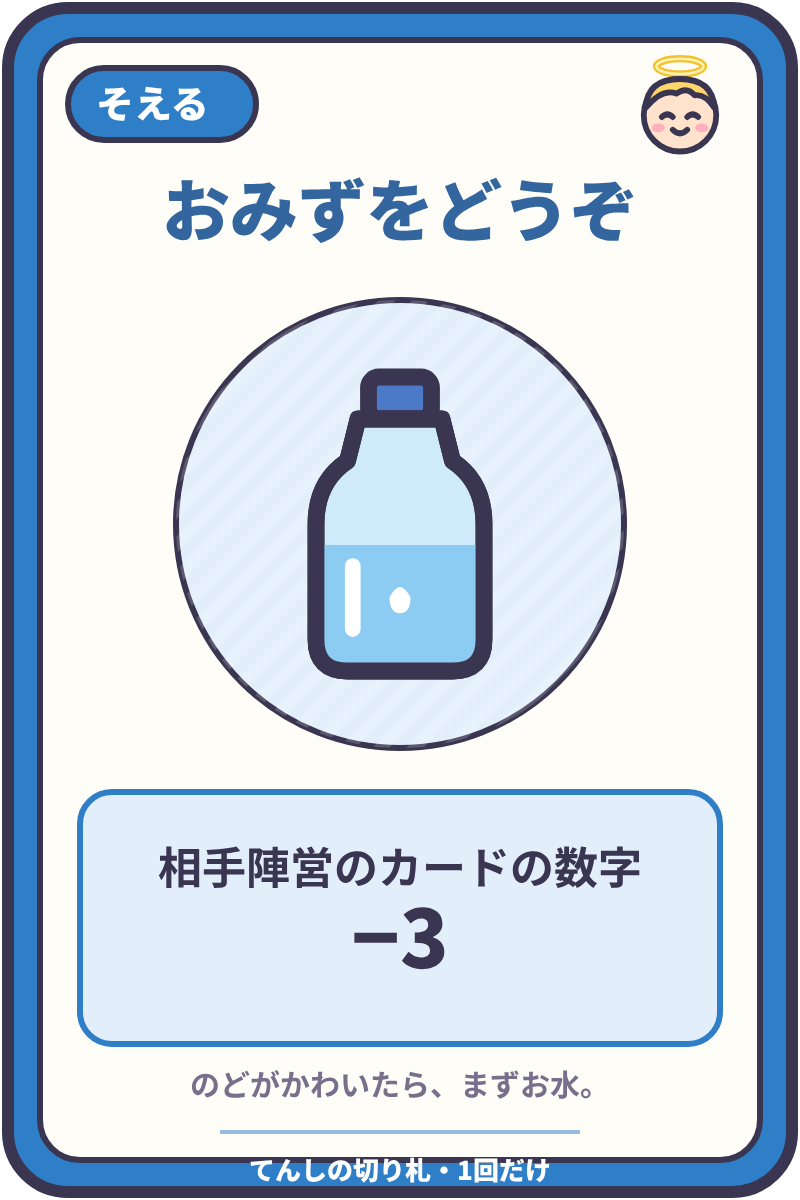
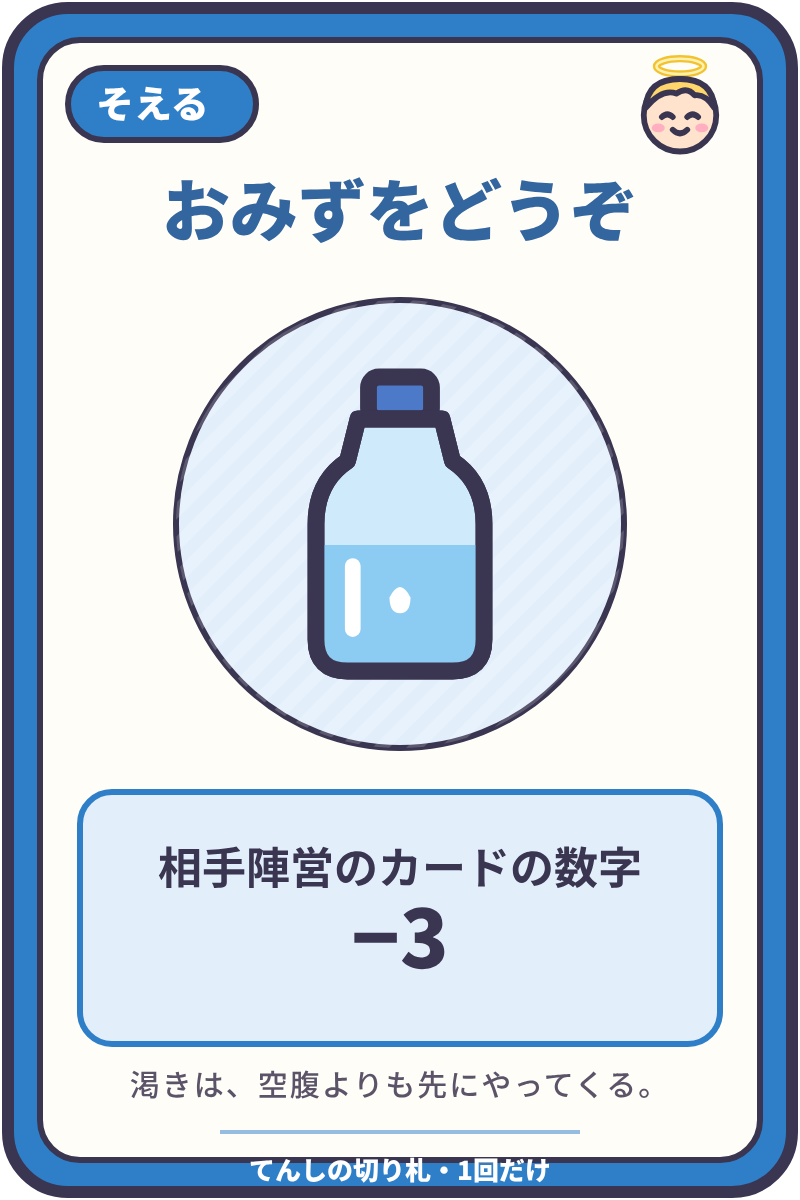
不穏なフレーバーテキストを追加（道中のひとこと・エピローグ・切り札の一言・ボード） (#50)
Claude-Session: https://claude.ai/code/session_01BgQtM1HGqWqvRbX9Ms6AAP

Changed region(s): [[0.1562, 0.8942, 0.8125, 0.925]]

diff --git a/tools/build_assets.py b/tools/build_assets.py
@@ -18,6 +18,9 @@ ROOT = Path(__file__).resolve().parent.parent
 ASSETS = ROOT / "assets"
 
 FONT = "'Noto Sans CJK JP','Hiragino Sans','Yu Gothic','Meiryo',sans-serif"
+# フレーバーテキスト用の色（フォントは本文と同じ丸みのあるゴシックのまま。
+# ポップな見た目のまま不穏な文が書かれているほうが不気味さが出るため）
+FLAVOR = "#5B5468"
 
 # ---- パレット（てんし＝青、あくま＝ローズ で全素材を統一） ----
 INK_SOFT = "#77708C"
@@ -45,6 +48,11 @@ TYPES = {
 def t(x, y, s, size, fill=INK, weight="normal", anchor="middle", extra=""):
     return (f'<text x="{x:.1f}" y="{y:.1f}" font-size="{size}" font-weight="{weight}" '
             f'fill="{fill}" text-anchor="{anchor}" {extra}>{escape(s)}</text>')
+
+
+def ft(x, y, s, size, fill=FLAVOR, anchor="middle", weight="500"):
+    """フレーバーテキスト（本文と同じフォント）"""
+    return t(x, y, s, size, fill, weight, anchor, 'letter-spacing="1"')
 
 
 def outlined(x, y, s, size, fill, stroke=INK, sw=8, anchor="middle", weight="900"):
@@ -402,13 +410,26 @@ def scenery_svg():
     return "\n".join(out)
 
 
+def flavor_svg():
+    """道のまんなかの空き地に置く、ひとことのフレーバー"""
+    out = []
+    # わかれ道①の内側（5A〜7A と 5B〜7B のあいだ）
+    out.append(ft(cx(5) - 6, cy(1) - 8, "――あのひとは今日も、", 15))
+    out.append(ft(cx(5) + 10, cy(1) + 18, "ひとりで帰ってくる。", 15))
+    # わかれ道②の内側（13A〜11A と 13B〜11B のあいだ）
+    out.append(ft(cx(6) - 2, cy(4) - 6, "おなかが空いたら、", 15))
+    out.append(ft(cx(6) + 14, cy(4) + 20, "おうちへ帰りましょう。", 15))
+    return "\n".join(out)
+
+
 def board():
     parts = [f'<svg xmlns="http://www.w3.org/2000/svg" width="{W}" height="{H}" viewBox="0 0 {W} {H}" font-family="{FONT}">',
              DEFS,
              f'<rect width="{W}" height="{H}" fill="url(#sky)"/>',
              f'<rect width="{W}" height="{H}" fill="url(#dots)"/>',
              scenery_svg(),
-             road_svg()]
+             road_svg(),
+             flavor_svg()]
     for sq in SQUARES:
         parts.append(tile_svg(sq))
     parts += [title_svg(), gimmick_svg(), flow_svg(), gauge_svg(), card_area_svg(), "</svg>"]
@@ -447,7 +468,9 @@ def quick_reference():
          outlined(62, 94, "おかえりロード 早見表", 48, INK, INK, 6, "start"),
          outlined(60, 90, "おかえりロード 早見表", 48, "#FFFFFF", INK, 5, "start"),
          place(art.angel(), QW - 170, 66, 80),
-         place(art.devil(), QW - 90, 72, 70)]
+         place(art.devil(), QW - 90, 72, 70),
+         ft(QW - 222, 58, "肩の上で、てんしとあくまが言い争う。", 14, anchor="end"),
+         ft(QW - 222, 86, "あのひとの好物を、だれも知らない。", 14, anchor="end")]
 
     def box(y, h, title, color):
         p.append(f'<g filter="url(#soft)"><rect x="40" y="{y}" width="{QW - 80}" height="{h}" rx="24" fill="#FFFFFF"/></g>')
@@ -548,20 +571,20 @@ def quick_reference():
 TRUMPS = {
     "angel": [
         # id, 名前, アイコン, タイミング, 効果（行ごと）, ひとこと
-        ("radio", "ラジオたいそう", "dumbbell", "そえる", ["自陣営のカードの数字", "+3"], "いっちに、さんし！"),
-        ("water", "おみずをどうぞ", "bottle", "そえる", ["相手陣営のカードの数字", "−3"], "のどがかわいたら、まずお水。"),
-        ("omamori", "おまもり", "omamori", "そえる", ["この公開でゲージが", "あくま側へ動くなら", "その動きを0にする"], "わるい誘惑から守ってくれる。"),
-        ("map", "ちずアプリ", "phone_map", "そえる", ["わかれ道で、勝ち負けに", "関係なくレーンを", "健康レーンにする"], "こっちの道のほうが景色がいいよ。"),
-        ("cheer", "おうえん団", "megaphone", "そえる", ["この公開でゲージが", "てんし側へ動くなら", "その動きを2倍にする"], "フレー！フレー！"),
-        ("early", "はやおき", "alarm", "いつでも", ["自陣営の手番中に使う", "山札から2枚引いて", "陣営の手札に加える"], "早起きは三文の徳。"),
+        ("radio", "ラジオたいそう", "dumbbell", "そえる", ["自陣営のカードの数字", "+3"], "体はいつも、動けるようにしておくこと。"),
+        ("water", "おみずをどうぞ", "bottle", "そえる", ["相手陣営のカードの数字", "−3"], "渇きは、空腹よりも先にやってくる。"),
+        ("omamori", "おまもり", "omamori", "そえる", ["この公開でゲージが", "あくま側へ動くなら", "その動きを0にする"], "守られているのは、どちらのほうだろう。"),
+        ("map", "ちずアプリ", "phone_map", "そえる", ["わかれ道で、勝ち負けに", "関係なくレーンを", "健康レーンにする"], "明るい道を選びなさい。人目のある道を。"),
+        ("cheer", "おうえん団", "megaphone", "そえる", ["この公開でゲージが", "てんし側へ動くなら", "その動きを2倍にする"], "声援がやむと、町はおそろしく静かだ。"),
+        ("early", "はやおき", "alarm", "いつでも", ["自陣営の手番中に使う", "山札から2枚引いて", "陣営の手札に加える"], "朝の道は、ひとりきりの人が多い。"),
     ],
     "devil": [
-        ("oomori", "大盛りサービス", "burger", "そえる", ["自陣営のカードの数字", "+3"], "大盛り無料ですよ〜。"),
-        ("sleepy", "ねむけさそい", "zzz", "そえる", ["相手陣営のカードの数字", "−3"], "ふわぁ…ちょっとだけ休もうよ。"),
-        ("gorone", "ごろ寝", "pillow", "そえる", ["この公開でゲージが", "てんし側へ動くなら", "その動きを0にする"], "運動は明日からでいいって。"),
-        ("smell", "いいにおい", "steam_smell", "そえる", ["わかれ道で、勝ち負けに", "関係なくレーンを", "誘惑レーンにする"], "あっちから、おいしそうな香り…"),
-        ("reward", "ごほうびデー", "cake", "そえる", ["この公開でゲージが", "あくま側へ動くなら", "その動きを2倍にする"], "今日はがんばったから特別！"),
-        ("late", "よふかし", "moon", "いつでも", ["自陣営の手番中に使う", "山札から2枚引いて", "陣営の手札に加える"], "夜食の時間だね。"),
+        ("oomori", "大盛りサービス", "burger", "そえる", ["自陣営のカードの数字", "+3"], "満腹のあいだは、だれも困らない。"),
+        ("sleepy", "ねむけさそい", "zzz", "そえる", ["相手陣営のカードの数字", "−3"], "眠っているあいだは、町が静かでいい。"),
+        ("gorone", "ごろ寝", "pillow", "そえる", ["この公開でゲージが", "てんし側へ動くなら", "その動きを0にする"], "動かないことも、ひとつのやさしさだ。"),
+        ("smell", "いいにおい", "steam_smell", "そえる", ["わかれ道で、勝ち負けに", "関係なくレーンを", "誘惑レーンにする"], "においの元は、いつも厨房の奥にある。"),
+        ("reward", "ごほうびデー", "cake", "そえる", ["この公開でゲージが", "あくま側へ動くなら", "その動きを2倍にする"], "今日の分は、もう食べたことにしよう。"),
+        ("late", "よふかし", "moon", "いつでも", ["自陣営の手番中に使う", "山札から2枚引いて", "陣営の手札に加える"], "夜は長い。おなかは、また空く。"),
     ],
 }
 
@@ -594,7 +617,7 @@ def trump_card(side, card):
     for i, line in enumerate(lines):
         big = line in ("+3", "−3")
         p.append(t(200, y0 + i * 34 + (8 if big else 0), line, 40 if big else 22, INK, "900" if big else "bold"))
-    p.append(t(200, 548, flavor, 15, INK_SOFT, "bold"))
+    p.append(ft(200, 548, flavor, 15 if len(flavor) <= 18 else 14))
     p.append(f'<path d="M110 566 L290 566" stroke="{color}" stroke-width="2" opacity="0.5"/>')
     p.append(t(200, 590, f"{team}・1回だけ", 13, "#FFFFFF", "900"))
     p.append("</svg>")

diff --git a/IMPROVEMENT_LOG.md b/IMPROVEMENT_LOG.md
@@ -57,3 +57,4 @@
 - 2026-10-08 01:08 JST: ccfolia/chat_palette.txt に、RULES.md でチャットに書き残すよう求めている定型文「健康レーンに決定」「誘惑レーンに決定」「てんし陣営に妨害中」「あくま陣営に妨害中」を追加し、RULES.md「CCFOLIA運用メモ」のチャットパレットの説明にも定型文が入っていることを追記（PR #54）
 - 2026-10-08 05:09 JST: 上級ルールの ♣ の半減が J「妨害」と同じくターンをまたいで続くのに、チャットでの宣言の記述と定型文が無かったため、RULES.md の ♣ の項に「あくま陣営に半減中」のように宣言することを追記し、ccfolia/chat_palette.txt に「てんし陣営に半減中」「あくま陣営に半減中」を追加（運用メモの説明も更新）（PR #55）
 - 2026-10-08 09:07 JST: RULES.md「3分でわかる遊び方」の目的の項に、ゲージがちょうど0でゴールした場合の気まぐれ判定（1d6 奇数＝てんし／偶数＝あくま）が抜けていた（ボード・早見表・チャットパレットには記載あり）ため、本文へのリンクつきで追記（PR #56）
+- 2026-10-08 09:11 JST: ユーザー依頼で、ポップな盤面と対比する不穏なフレーバーテキスト（NPC「あのひと」が実は人を食べる側であることを最後に匂わせる）を追加。RULES.md に冒頭の貼り紙・コンセプトのプロローグ・「道中のひとこと」（マスごと）・ハプニング表のひとこと・ゴール後の「エピローグ」を、README に導入文を、ボード（わかれ道の内側2か所）・早見表（タイトル横）・切り札12枚の一言を不穏な文に差し替えて PNG を再書き出し。ユーザーの判断で、フレーバーの文字は明朝体にせず本文と同じ丸みのあるゴシック（Noto Sans CJK JP）のままにした。master との衝突（IMPROVEMENT_LOG.md・ボード PNG）は master を取り込んで解消し、素材は tools/ で再生成（PR #50）

diff --git a/README.md b/README.md
@@ -1,8 +1,12 @@
 # おかえりロード 〜天使とあくまのさんぽ道〜
 
+> *夕暮れの町を、あのひとは歩いて帰る。肩の上では、小さなてんしと小さなあくまが、今日もあのひとの体のことで言い争っている。*
+
 CCFOLIA（[ccfolia.com](https://ccfolia.com/)）だけで完結する、トランプ＋ダイスすごろく形式のチーム対戦ボードゲームです。カードは CCFOLIA 標準の **「トランプのデッキ」** を使うので、現物のトランプもディーラー（進行役）も不要です。
 
 NPCを「太らせたいあくま陣営」と「痩せて健康にしたいてんし陣営」に分かれて、分岐すごろくのルートと体調ゲージを奪い合います。カードはいつも **裏向きで置いて「せーの」で公開**。相手のマスにも「横やり」を入れられるので、どのマスでも読み合いが起こります。さらにボードには、お店ごとの「お気に入りスート（+3）」、合流マスの「大勝負（×2）」、同じ数字2枚の「ペア出し」、劣勢側の「がんばれゾーン（+2）」といったしかけが描かれていて、どのカードをどこまで温存するかが勝負の分かれ目になります。各陣営にはオリジナルの **切り札カード** が6枚ずつあり、「おまもり」「いいにおい」など1回だけの一発逆転を狙えます。
+
+盤面やカードはポップですが、ルールブックのあちこちには少し不穏な **フレーバーテキスト** がひそんでいます。マスに止まったときの「[道中のひとこと](RULES.md#道中のひとことフレーバー)」や、ゴール後の「[エピローグ](RULES.md#エピローグゴール後の読み上げ)」を読み上げると、あのひとの散歩の、もうひとつの顔が見えてくるかもしれません。
 
 ![切り札カード](assets/trump_cards_sheet.png)
 
